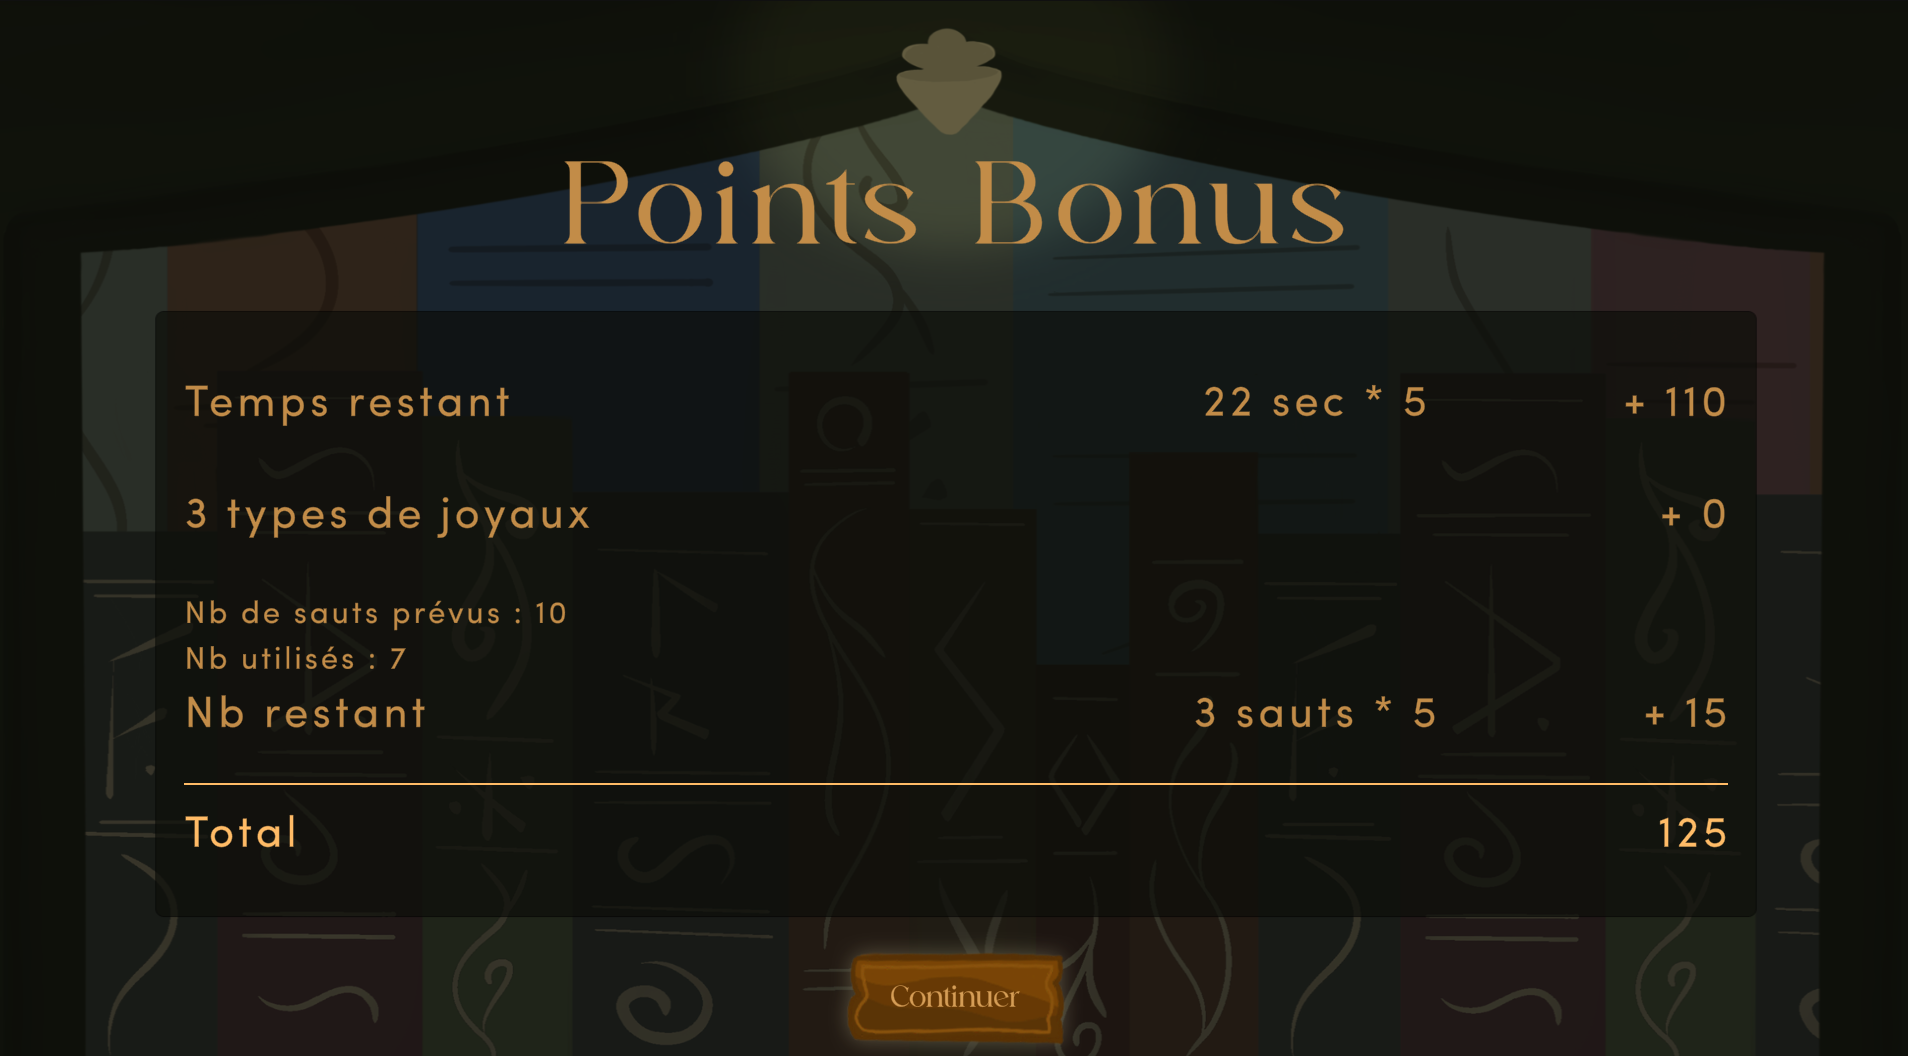
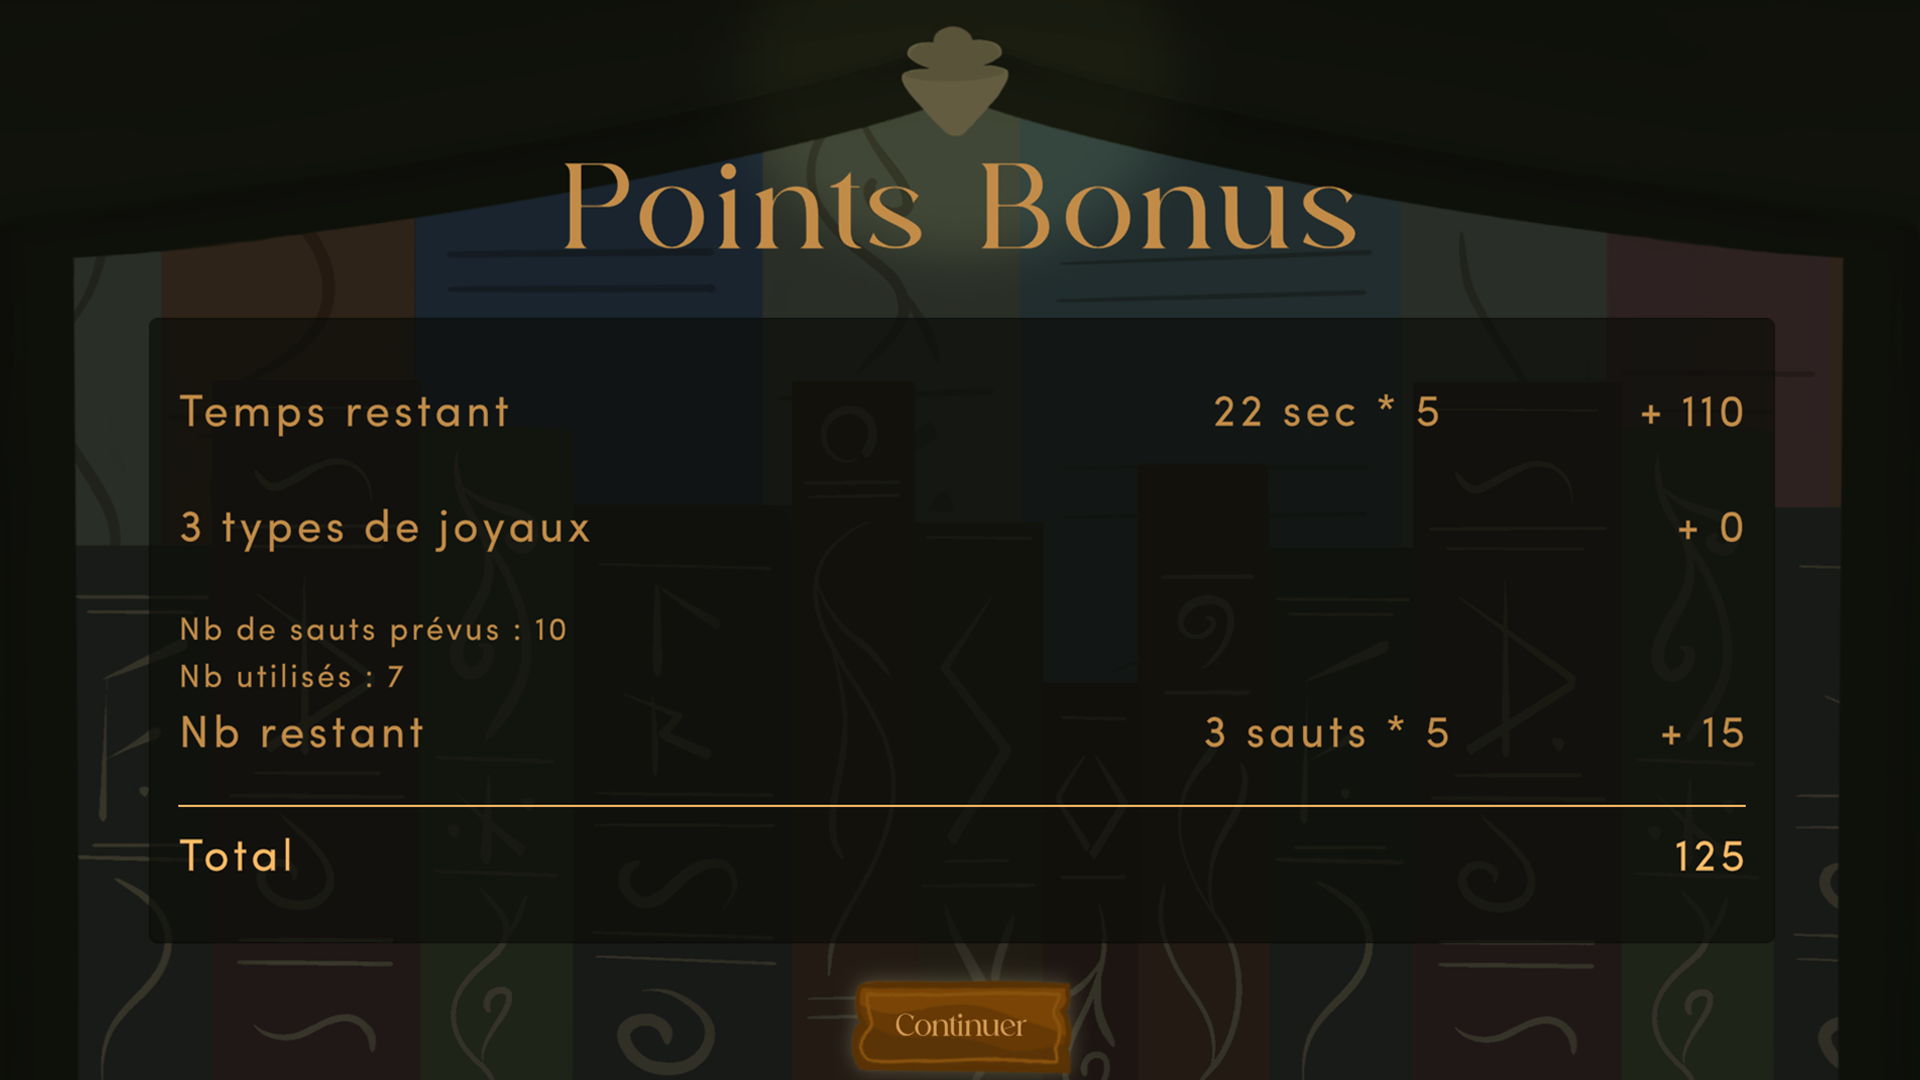
Petits ajustements d'image

diff --git a/css/projet.css b/css/projet.css
@@ -261,10 +261,12 @@
     position: relative;
     height: 55vw;
     min-height: 280px;
+    order: 2;
   }
 
   .projet-infos {
     padding: 4rem 2.5rem;
+    order: 1;
   }
 
   .projet-description {
@@ -277,7 +279,13 @@
 
   .galerie-item:first-child {
     grid-column: 1;
-    aspect-ratio: 16 / 10;
+    aspect-ratio: unset;
+  }
+
+  .galerie-item video {
+    width: 100%;
+    height: auto;
+    object-fit: contain;
   }
 
   .projet-nav {

diff --git a/archives-oubliees.html b/archives-oubliees.html
@@ -91,7 +91,7 @@
         <div class="galerie-item reveal">
           <img src="./assets/images/Archives_jeu.png" alt="Jeu">
         </div>
-        <div class="galerie-item reveal">
+        <div class="galerie-item reveal complet">
           <img src="./assets/images/Archives_interface.png" alt="Interface">
         </div>
       </section>